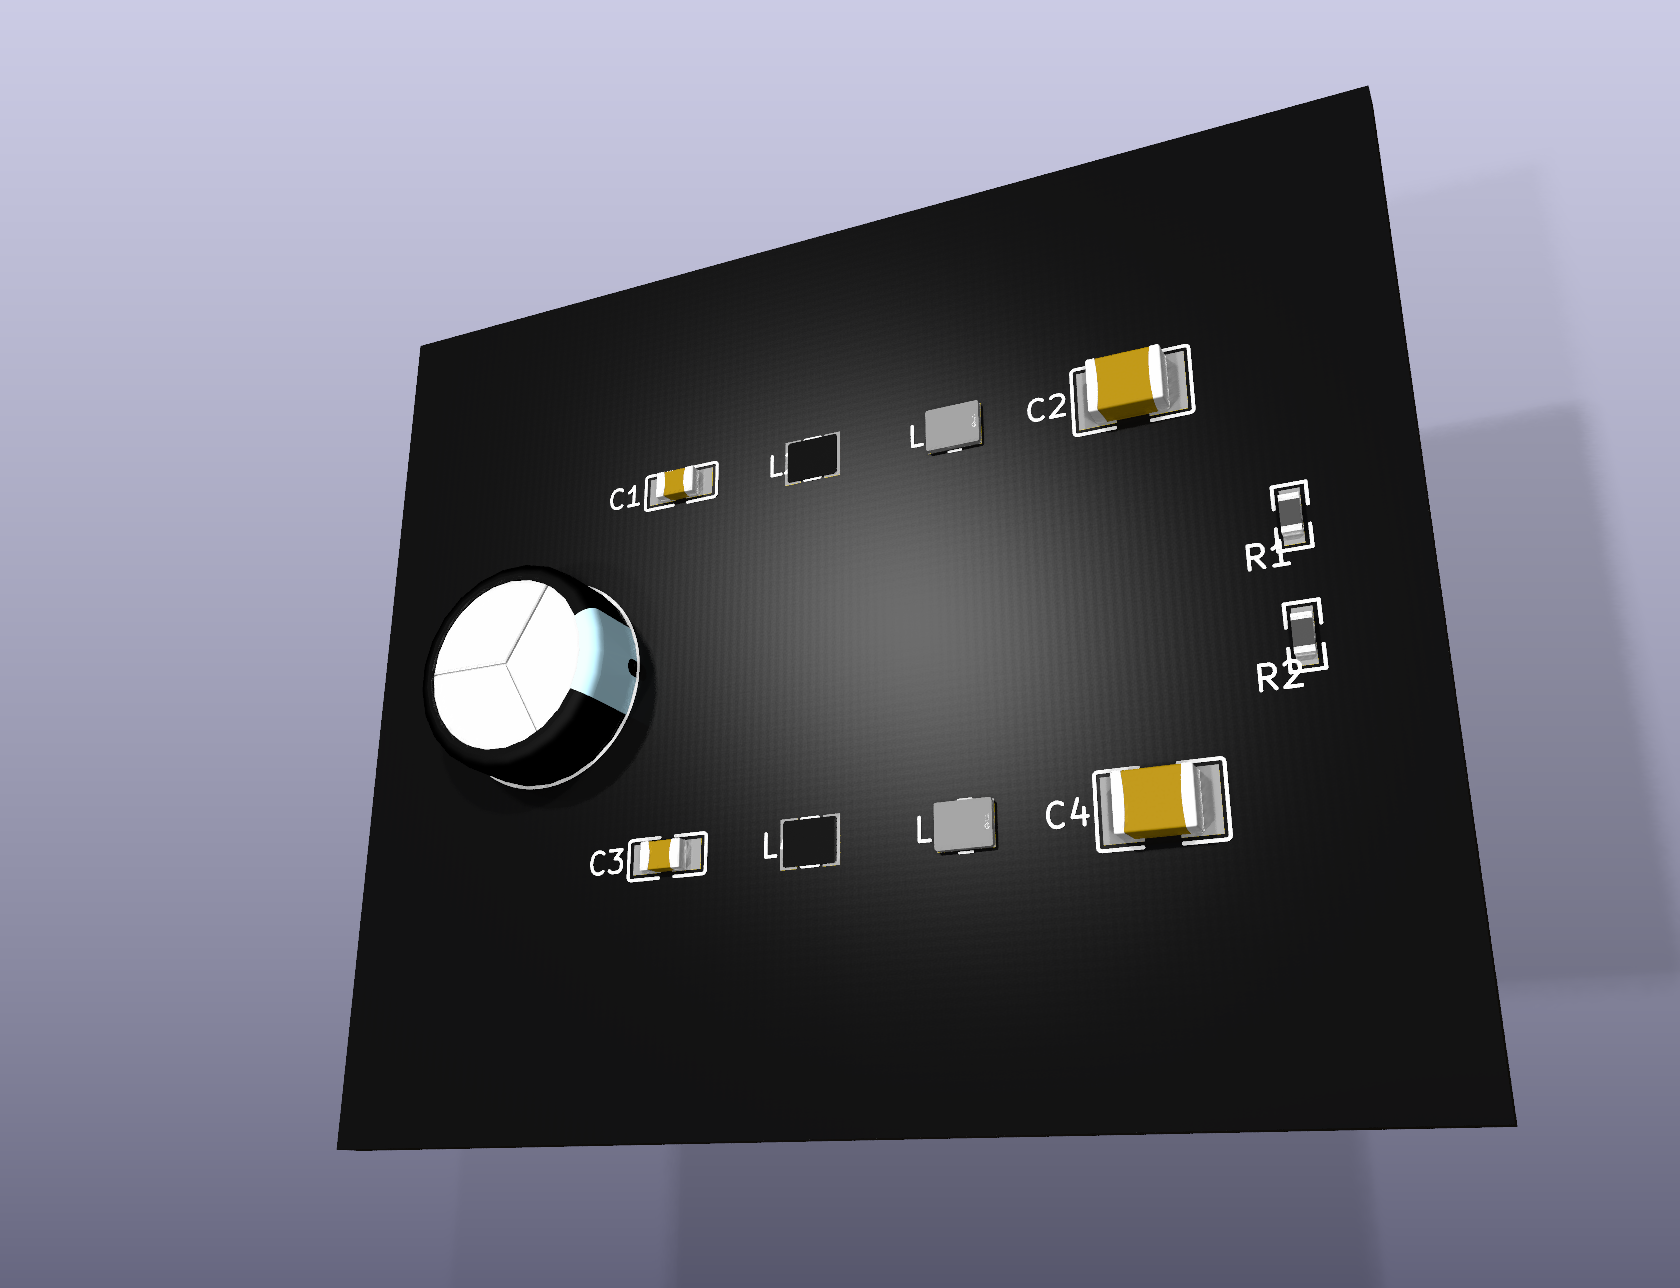
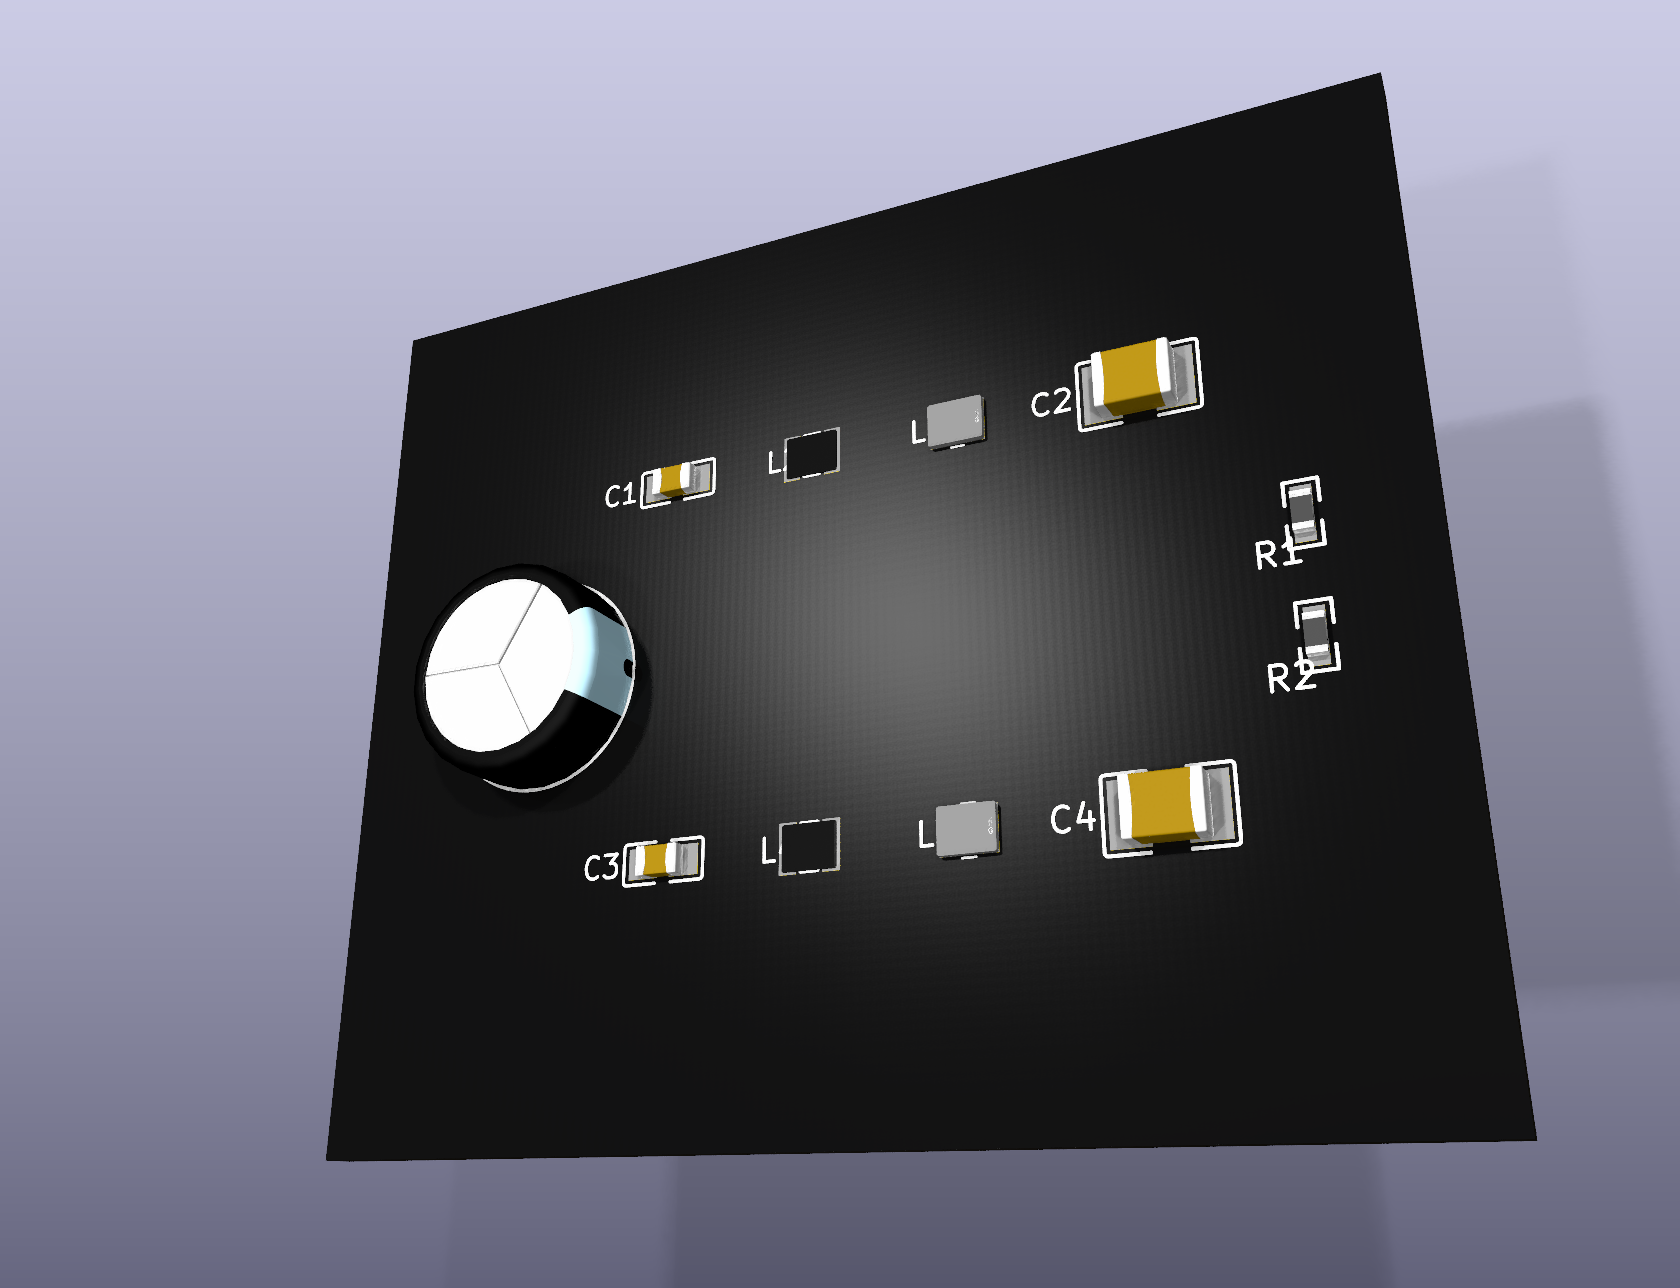
Harden PCB layout workflow (fix stale-edit board breakage)
atopile PRESERVES manual layout edits across `ato build`, so re-running
place_board.py stacked duplicate outlines and an earlier bad edit (a gr_circle
with `(fill none)`, invalid in KiCad 9+ format) persisted and made the board
unloadable by kicad-cli. Fix:
- `make pcb` now wipes elec/layout, rebuilds from atopile, and re-places — a
  clean layout every time.
- place_board.py refuses to run on an already-placed board (idempotency guard).
- add `make pcb-fab` (render + DRC + gerbers).
Verified end-to-end: clean board loads + renders in KiCad, DRC + 31-file gerber
zip export. Renders refreshed.

diff --git a/hardware/electrical/pcb/place_board.py b/hardware/electrical/pcb/place_board.py
@@ -23,6 +23,16 @@ POS = {
 }
 
 txt = PCB.read_text()
+
+# Idempotency guard: atopile PRESERVES manual layout edits across `ato build`, so
+# running this twice would stack duplicate outlines (and any bad edit persists and
+# can make the board unloadable). Always run on a FRESH layout:
+#   rm -rf elec/layout && ato build && python3 place_board.py
+if 'Edge.Cuts' in txt and 'gr_line' in txt:
+    raise SystemExit(
+        "Refusing to run: this layout already has an Edge.Cuts outline.\n"
+        "Regenerate clean first:  rm -rf elec/layout && ato build && python3 place_board.py")
+
 lines = txt.split("\n")
 i = 0
 placed = []